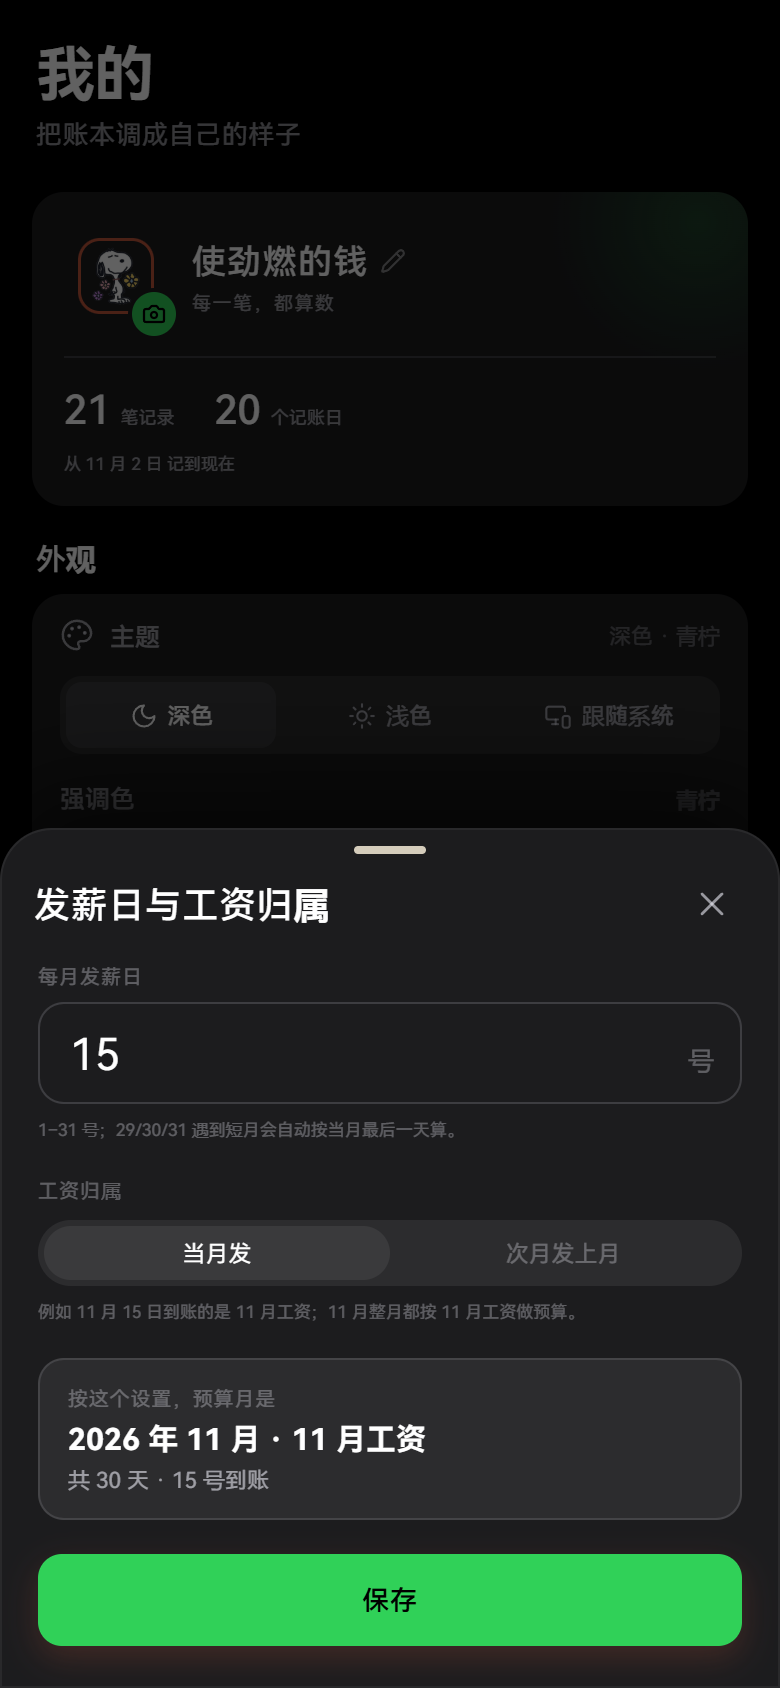
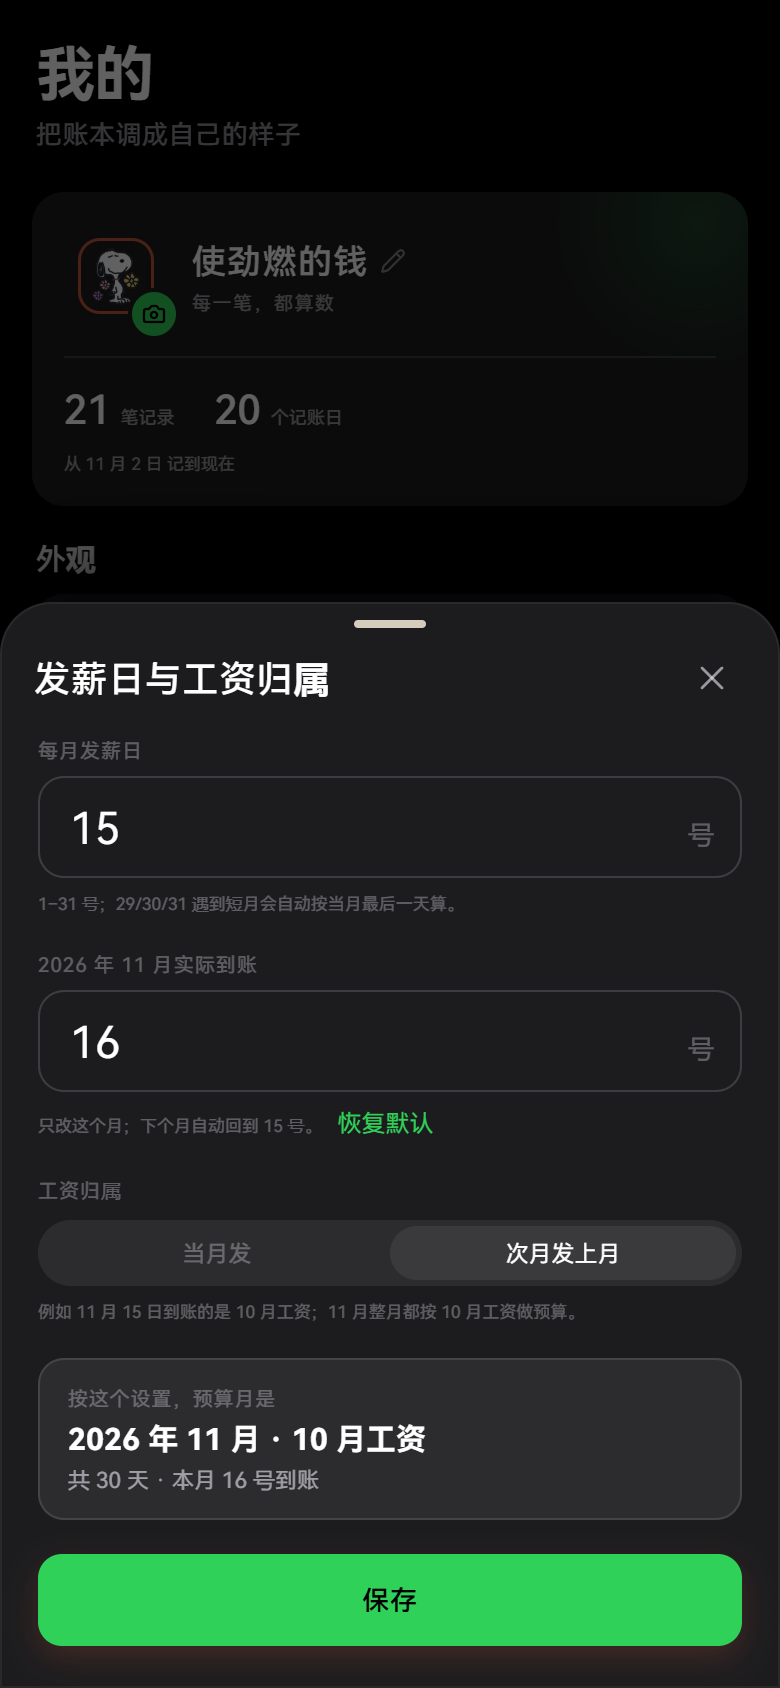
发薪日：支持单独设置本月实际到账日，下月自动回默认

diff --git a/src/pages/Me.tsx b/src/pages/Me.tsx
@@ -201,7 +201,13 @@ export function Me() {
           <Row
             icon={CalendarClock}
             label="发薪日与工资归属"
-            sub={(state.settings.salaryLag ?? 0) === 1 ? '次月发上月，预算按自然月算' : '当月发，预算按自然月算'}
+            sub={
+              state.settings.paydayOverrides?.[todayStr().slice(0, 7)]
+                ? `本月 ${state.settings.paydayOverrides[todayStr().slice(0, 7)]} 号到账 · ${(state.settings.salaryLag ?? 0) === 1 ? '次月发上月' : '当月发'}`
+                : (state.settings.salaryLag ?? 0) === 1
+                  ? '次月发上月，预算按自然月算'
+                  : '当月发，预算按自然月算'
+            }
             value={`${state.settings.payday ?? 15} 号`}
             onClick={() => setPayOpen(true)}
           />
@@ -230,7 +236,7 @@ export function Me() {
       <footer className="me-foot">
         <img className="me-brand-icon" src={appIcon} alt="使劲燃的钱" />
         <div>
-          <b>使劲燃的钱 v1.1.15</b>
+          <b>使劲燃的钱 v1.1.16</b>
           <p><ShieldCheck size={13} strokeWidth={1.6} /> 数据只保存在这台手机上，不上传</p>
         </div>
         <button
@@ -401,15 +407,20 @@ function PaydaySheet({ open, onClose }: { open: boolean; onClose: () => void }) 
   const toast = useToast()
   const [day, setDay] = useState('15')
   const [lag, setLag] = useState<0 | 1>(1)
+  const [actual, setActual] = useState('15')
+  const month = todayStr().slice(0, 7)
 
   useEffect(() => {
     if (!open) return
-    setDay(String(state.settings.payday ?? 15))
+    const base = String(state.settings.payday ?? 15)
+    setDay(base)
+    setActual(String(state.settings.paydayOverrides?.[month] ?? base))
     setLag(state.settings.salaryLag === 1 ? 1 : 0)
-  }, [open, state.settings.payday, state.settings.salaryLag])
+  }, [open, month, state.settings.payday, state.settings.salaryLag, state.settings.paydayOverrides])
 
   const cleanDay = (v: string) => v.replace(/\D/g, '').slice(0, 2)
   const safeDay = Math.min(31, Math.max(1, Number(day) || 1))
+  const safeActual = Math.min(31, Math.max(1, Number(actual) || safeDay))
   const cycle = cycleRange(todayStr(), safeDay, lag)
   const cycleDays = daysBetween(cycle.start, cycle.end) + 1
 
@@ -421,7 +432,11 @@ function PaydaySheet({ open, onClose }: { open: boolean; onClose: () => void }) 
           <div className="money-input">
             <input
               value={day}
-              onChange={(e) => setDay(cleanDay(e.target.value))}
+              onChange={(e) => {
+                const next = cleanDay(e.target.value)
+                if (actual === day) setActual(next)
+                setDay(next)
+              }}
               inputMode="numeric"
               placeholder="15"
               aria-label="每月发薪日"
@@ -429,6 +444,26 @@ function PaydaySheet({ open, onClose }: { open: boolean; onClose: () => void }) 
             <i className="is-suffix">号</i>
           </div>
           <small>1–31 号；29/30/31 遇到短月会自动按当月最后一天算。</small>
+        </label>
+
+        <label className="field">
+          <span>{formatMonth(todayStr())}实际到账</span>
+          <div className="money-input">
+            <input
+              value={actual}
+              onChange={(e) => setActual(cleanDay(e.target.value))}
+              inputMode="numeric"
+              placeholder={String(safeDay)}
+              aria-label="本月实际到账日"
+            />
+            <i className="is-suffix">号</i>
+          </div>
+          <small>
+            只改这个月；下个月自动回到 {safeDay} 号。
+            <button type="button" className="pay-reset" onClick={() => setActual(String(safeDay))}>
+              恢复默认
+            </button>
+          </small>
         </label>
 
         <div className="field">
@@ -464,7 +499,7 @@ function PaydaySheet({ open, onClose }: { open: boolean; onClose: () => void }) 
           <span>按这个设置，预算月是</span>
           <b>{formatMonth(cycle.start)} · {salaryMonthLabel(cycle.salaryMonth)}</b>
           <em>
-            共 {cycleDays} 天 · {safeDay} 号到账
+            共 {cycleDays} 天 · 本月 {safeActual} 号到账
           </em>
         </div>
 
@@ -472,7 +507,15 @@ function PaydaySheet({ open, onClose }: { open: boolean; onClose: () => void }) 
           type="button"
           className="btn-primary"
           onClick={() => {
-            saveSettings({ payday: safeDay, salaryLag: lag, paydaySet: true })
+            const next = { ...(state.settings.paydayOverrides ?? {}) }
+            if (safeActual === safeDay) delete next[month]
+            else next[month] = safeActual
+            saveSettings({
+              payday: safeDay,
+              salaryLag: lag,
+              paydaySet: true,
+              paydayOverrides: Object.keys(next).length ? next : undefined,
+            })
             toast('发薪日已更新', 'success')
             onClose()
           }}

diff --git a/src/pages/Home.tsx b/src/pages/Home.tsx
@@ -6,6 +6,7 @@ import {
   categoryBreakdown,
   cycleRange,
   daysBetween,
+  effectivePayday,
   formatDay,
   formatMonth,
   formatPercent,
@@ -54,11 +55,16 @@ export function Home({
   const ledgerName = state.settings.name?.trim() || DEFAULT_LEDGER_NAME
   const payday = state.settings.payday ?? 15
   const salaryLag = state.settings.salaryLag ?? 1
+  const overrides = state.settings.paydayOverrides
   const cycle = cycleRange(today, payday, salaryLag)
   const cycleTxs = inRange(state.txs, cycle.start, cycle.end)
   const flow = moneyFlow(state.settings, cycleTxs, today, cycle)
   const salaryLabel = salaryMonthLabel(cycle.salaryMonth)
-  const daysToPayday = Math.max(0, daysBetween(today, nextPayday(today, payday)))
+  const actualDay = effectivePayday(today, payday, overrides)
+  const nextPay = nextPayday(today, payday, overrides)
+  const daysToPayday = Math.max(0, daysBetween(today, nextPay))
+  const isThisPayMonth = nextPay.slice(0, 7) === today.slice(0, 7)
+  const nextMonthDay = effectivePayday(nextPay, payday, overrides)
   const recent = [...state.txs]
     .sort((a, b) => b.date.localeCompare(a.date) || b.createdAt - a.createdAt)
     .slice(0, 5)
@@ -129,8 +135,15 @@ export function Home({
           </button>
         </div>
         <p className="og-cycle">
-          {salaryLabel} · {payday} 号到账 ·{' '}
-          {daysToPayday === 0 ? '今天发薪' : `${daysToPayday} 天后发薪`}
+          {salaryLabel} ·{' '}
+          {isThisPayMonth ? (
+            <>
+              本月 {actualDay} 号到账 ·{' '}
+              {daysToPayday === 0 ? '今天发薪' : `${daysToPayday} 天后发薪`}
+            </>
+          ) : (
+            <>本月 {actualDay} 号已到账 · 下月 {nextMonthDay} 号发薪</>
+          )}
         </p>
 
         <div className="og-meters">

diff --git a/src/utils/date.ts b/src/utils/date.ts
@@ -121,12 +121,21 @@ export function cycleRange(s: string, _payday = 1, salaryLag = 0): CycleRange {
   }
 }
 
-/** 下一个发薪日（今天就是发薪日时返回今天） */
-export function nextPayday(s: string, payday = 1): string {
+/** 某个月的实际发薪日：优先读这个月的覆盖值，否则用默认值 */
+export function effectivePayday(s: string, payday = 15, overrides?: Record<string, number>): number {
+  return overrides?.[s.slice(0, 7)] ?? payday
+}
+
+/** 下一个发薪日（今天就是发薪日时返回今天）；个别月份可覆盖 */
+export function nextPayday(s: string, payday = 15, overrides?: Record<string, number>): string {
   const d = parseDate(s)
-  const thisPay = paydayDate(d.getFullYear(), d.getMonth(), payday)
+  const thisDay = effectivePayday(s, payday, overrides)
+  const thisPay = paydayDate(d.getFullYear(), d.getMonth(), thisDay)
   if (toDateStr(d) <= toDateStr(thisPay)) return toDateStr(thisPay)
-  return toDateStr(paydayDate(d.getFullYear(), d.getMonth() + 1, payday))
+  const nextMonth = new Date(d.getFullYear(), d.getMonth() + 1, 1)
+  const nextKey = toDateStr(nextMonth)
+  const nextDay = effectivePayday(nextKey, payday, overrides)
+  return toDateStr(paydayDate(nextMonth.getFullYear(), nextMonth.getMonth(), nextDay))
 }
 
 /** 把预算月往前/后挪 n 个月 */

diff --git a/src/data/store.tsx b/src/data/store.tsx
@@ -23,6 +23,18 @@ export function freshState(): LedgerState {
   }
 }
 
+function sanitizeOverrides(input: unknown): Record<string, number> | undefined {
+  if (!input || typeof input !== 'object') return undefined
+  const out: Record<string, number> = {}
+  for (const [key, value] of Object.entries(input as Record<string, unknown>)) {
+    const day = Math.round(Number(value))
+    if (!/^\d{4}-(0[1-9]|1[0-2])$/.test(key)) continue
+    if (!Number.isFinite(day) || day < 1 || day > 31) continue
+    out[key] = day
+  }
+  return Object.keys(out).length ? out : undefined
+}
+
 function normalize(raw: unknown): LedgerState | null {
   if (!raw || typeof raw !== 'object') return null
   const data = raw as Partial<LedgerState>
@@ -63,6 +75,7 @@ function normalize(raw: unknown): LedgerState | null {
       payday: s.paydaySet === true ? Math.min(31, Math.max(1, Math.round(Number(s.payday) || 15))) : 15,
       salaryLag: s.paydaySet === true && s.salaryLag === 1 ? 1 : 0,
       paydaySet: s.paydaySet === true,
+      paydayOverrides: sanitizeOverrides(s.paydayOverrides),
     },
   }
 }

diff --git a/src/types.ts b/src/types.ts
@@ -79,6 +79,8 @@ export interface Settings {
   salaryLag?: 0 | 1
   /** 是否由用户明确选过发薪日；旧数据缺这个字段时按 15 号 / 次月发上月 */
   paydaySet?: boolean
+  /** 个别月份的实际到账日，key 为到账月 YYYY-MM，未记录的月份用 payday */
+  paydayOverrides?: Record<string, number>
 }
 
 /** 一个预算月（自然月 1 号到月末），salaryMonth 是这笔工资归属的月份 */

diff --git a/src/styles/og.css b/src/styles/og.css
@@ -1925,3 +1925,19 @@ button {
   line-height: 1.6;
   color: var(--ink-3);
 }
+
+/* 发薪日弹层：本月实际到账 + 恢复默认 */
+.pay-reset {
+  margin-left: 8px;
+  padding: 0;
+  border: 0;
+  background: none;
+  color: var(--accent);
+  font: inherit;
+  font-size: 12px;
+  cursor: pointer;
+}
+
+.pay-reset:active {
+  opacity: 0.6;
+}

diff --git a/README.md b/README.md
@@ -7,7 +7,7 @@
 - 纯本地存储，不联网、不上传、无广告、无账号
 - 深色 / 浅色 / 跟随系统 + 8 个强调色的可换主题；炭灰卡片、16px 间距、鸿蒙 Sans 中文 + Nunito 圆体数字；版式与主题系统参考 openGym，代码全部重写
 - 冷启动从桌面图标接力：图标先落在黑底上，海报从图标的圆角矩形里向外展开并对上焦，再虚化交给首页
-- 安装包：`release/使劲燃的钱-1.1.15.apk`（约 5.2 MB，minSdk 23 / targetSdk 35）
+- 安装包：`release/使劲燃的钱-1.1.16.apk`（约 5.2 MB，minSdk 23 / targetSdk 35）
 
 ## 功能
 
@@ -28,6 +28,7 @@
 - **预算按自然月**：每月 1 号到月末；发薪日只决定工资哪天到账，不把月份切成两段
 - **工资归属单独算**：`当月发` 或 `次月发上月`。选后者时，11 月 15 日到账的是 10 月工资，11 月整月都标「10 月工资」
 - 发薪日 1–31，新装默认 **15 号 / 次月发上月**；29/30/31 遇到短月自动按当月最后一天，下个周期回到原日期
+- **某个月实际到账日可单独改**：比如这个月 16 号才到账，只改当月，下个月自动回到默认日；首页会显示「本月 16 号到账 · 3 天后发薪」或「本月 16 号已到账 · 下月 15 号发薪」
 - `可支配 = 本月工资 + 其他收入 − 固定支出`
 - `剩余 = 可支配 − 日常支出`，百分比都以本月可支配为分母
 - 收入分类（奖金/兼职/理财/红包/报销）计入「其他收入」
@@ -93,7 +94,7 @@ JAVA_HOME='C:\Program Files\Java\jdk-17' /c/Android/gradle-8.9/bin/gradle.bat -p
 | --- | --- | --- |
 | ![](docs/screenshots/web/02-home.png) | ![](docs/screenshots/web/09-ledger.png) | ![](docs/screenshots/web/13-success.png) |
 
-浅色主题与强调色设置见 `docs/screenshots/web/16-theme-light.png`，流水详情见 `docs/screenshots/web/17-tx-detail.png`，改账本名字见 `docs/screenshots/web/18-name.png`，发薪日设置见 `docs/screenshots/web/19-payday.png` 与 `20-onboarding-payday.png`；浏览器截图在 `docs/screenshots/web/`（21 张，390×844@2x，含备份弹层、发薪日设置与带发薪日的引导页）。`docs/screenshots/android/` 里保留的是 1.0 纸色版真机图；1.1 深色版打包后没有可用的模拟器（Windows 提交内存不足），原生截图未重拍。
+浅色主题与强调色设置见 `docs/screenshots/web/16-theme-light.png`，流水详情见 `docs/screenshots/web/17-tx-detail.png`，改账本名字见 `docs/screenshots/web/18-name.png`，发薪日与实际到账日设置见 `docs/screenshots/web/19-payday.png` 与 `20-onboarding-payday.png`；浏览器截图在 `docs/screenshots/web/`（21 张，390×844@2x，含备份弹层、发薪日设置与带发薪日的引导页）。`docs/screenshots/android/` 里保留的是 1.0 纸色版真机图；1.1 深色版打包后没有可用的模拟器（Windows 提交内存不足），原生截图未重拍。
 
 ## 设计说明
 
@@ -103,7 +104,7 @@ JAVA_HOME='C:\Program Files\Java\jdk-17' /c/Android/gradle-8.9/bin/gradle.bat -p
 
 主题系统是 openGym 那套的轻量移植：`src/utils/theme.ts` 负责 `data-theme` / `data-accent`、系统偏好与本地记忆，`styles/og.css` 顶部集中放深/浅两套语义 token 和 8 组强调色；`index.html` 在首屏渲染前先读一次本地设置，避免深色闪一下。状态栏图标颜色跟随主题；主题选择随账本保存在本地，覆盖安装或导入备份都会保留。
 
-预算按自然月重置，发薪日不改变预算月份。首页副行会写清「10 月工资 · 15 号到账 · 2 天后发薪」：11 月 15 日到账的是 10 月工资，所以 11 月整月都按 10 月工资算；12 月 1 日起切到 11 月工资，不会出现 11 月 13 日还算 9 月工资的情况。设置里可以填每月几号发工资，并选「当月发 / 次月发上月」。统计页的「月」、明细的月历、每日柱状图和分类占比都按自然月走。发薪日填 29/30/31 时，短月自动落到月末，下个周期再回到原日期。
+预算按自然月重置，发薪日不改变预算月份。首页副行会写清「10 月工资 · 15 号到账 · 2 天后发薪」：11 月 15 日到账的是 10 月工资，所以 11 月整月都按 10 月工资算；12 月 1 日起切到 11 月工资，不会出现 11 月 13 日还算 9 月工资的情况。设置里可以填每月几号发工资，并选「当月发 / 次月发上月」；如果某个月实际到账日不一样，在同一个弹层里改「本月实际到账」，只影响当月，下个月自动回到默认日。统计页的「月」、明细的月历、每日柱状图和分类占比都按自然月走。发薪日填 29/30/31 时，短月自动落到月末，下个周期再回到原日期。
 
 点流水里的任意一笔，会先弹出一张「这笔记录」卡：分类磁贴、金额（收入用苔绿、支出用墨色）、类型、备注、日期和记录时间都在里面。底部并排两个按钮：左边「修改金额」会关掉详情、打开复用的记账框，右边「删除」需要再点一次确认，避免误删；不用在列表里直接跳进编辑态。
 

diff --git a/docs/ARCHITECTURE.md b/docs/ARCHITECTURE.md
@@ -91,7 +91,7 @@ openGym 是 AGPL-3.0，这里只借鉴版式与间距，没有复制它的代码
 | 改头像裁剪尺寸或格式 | `src/utils/avatar.ts` 的 `fileToAvatar` |
 | 改主题 / 强调色预设 | `src/utils/theme.ts` 的 `ACCENTS`，配色值在 `styles/og.css` 顶部 |
 | 改账本名字 / 问候语 | `Settings.name`（默认值 `DEFAULT_LEDGER_NAME`）+ `Home.tsx` 里的 `greeting(now)` 与 30 秒时钟 |
-| 改发薪日 / 工资归属 | `Settings.payday` / `Settings.salaryLag` + `utils/date.ts` 的 `cycleRange` / `shiftCycle` / `nextPayday`；预算按自然月，`salaryMonth` 决定工资归属 |
+| 改发薪日 / 工资归属 | `Settings.payday` / `Settings.salaryLag` / `Settings.paydayOverrides` + `utils/date.ts` 的 `cycleRange` / `shiftCycle` / `effectivePayday` / `nextPayday`；预算按自然月，`salaryMonth` 决定工资归属，overrides 只改某个月的到账日 |
 | 加一个持久化字段 | `src/types.ts` 的 `LedgerState` + `store.tsx` 的 `freshState` / `normalize` |
 | 加内置分类 | `src/data/categories.ts` |
 
@@ -105,10 +105,10 @@ openGym 是 AGPL-3.0，这里只借鉴版式与间距，没有复制它的代码
 ```
 
 读的时候反过来：`useLedger().state` → `utils/stats.ts` 按区间汇总 → 页面渲染。
-统计口径集中在 `moneyFlow()`：`可支配 = 本期工资 + 其他收入 − 固定支出`，`剩余 = 可支配 − 日常支出`。预算月由 `cycleRange(date, payday, salaryLag)` 决定（现在就是自然月），`salaryMonth` 是这笔钱归属的月份；`moneyFlow` 的 `daysElapsed` / `daysLeft` 按当月天数计算。发薪日只通过 `nextPayday()` 影响到账倒计时和「几号到账」文案。
+统计口径集中在 `moneyFlow()`：`可支配 = 本期工资 + 其他收入 − 固定支出`，`剩余 = 可支配 − 日常支出`。预算月由 `cycleRange(date, payday, salaryLag)` 决定（现在就是自然月），`salaryMonth` 是这笔钱归属的月份；`moneyFlow` 的 `daysElapsed` / `daysLeft` 按当月天数计算。发薪日只通过 `effectivePayday()` / `nextPayday()` 影响到账倒计时和「几号到账」文案；`paydayOverrides['YYYY-MM']` 优先于默认 `payday`，保存时若与默认相同则删除该月覆盖。
 
 ## 版本与构建
 
-- `versionCode 25` / `versionName 1.1.15`（`android/app/build.gradle`）
+- `versionCode 26` / `versionName 1.1.16`（`android/app/build.gradle`）
 - 数据版本 `LedgerState.version = 1`，`normalize()` 会在读取时补全新增的内置分类
 - 打包：`npm run build && npx cap copy android`，再 `gradle assembleDebug`

diff --git a/CHANGELOG.md b/CHANGELOG.md
@@ -1,5 +1,11 @@
 # 更新记录
 
+## 1.1.16 — 2026-11-14
+
+- 发薪日支持「本月实际到账」：某个月晚几天到账时只改当月，下个月自动回默认日；首页显示本月实际到账/已到账，以及下月发薪日。
+- 设置页的发薪日弹层新增实际到账输入、恢复默认，并实时预览本月账期。
+- 备份/导入会保留每个月的到账日覆盖；旧数据没有这个字段时按默认发薪日。
+
 ## 1.1.15 — 2026-11-14
 
 修正发薪日口径：预算重新按自然月走，发薪日只决定哪天到账。
